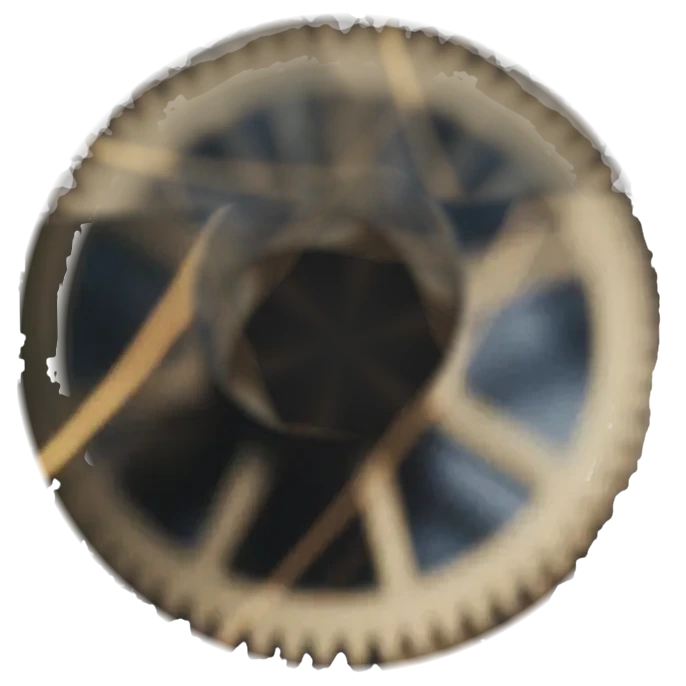
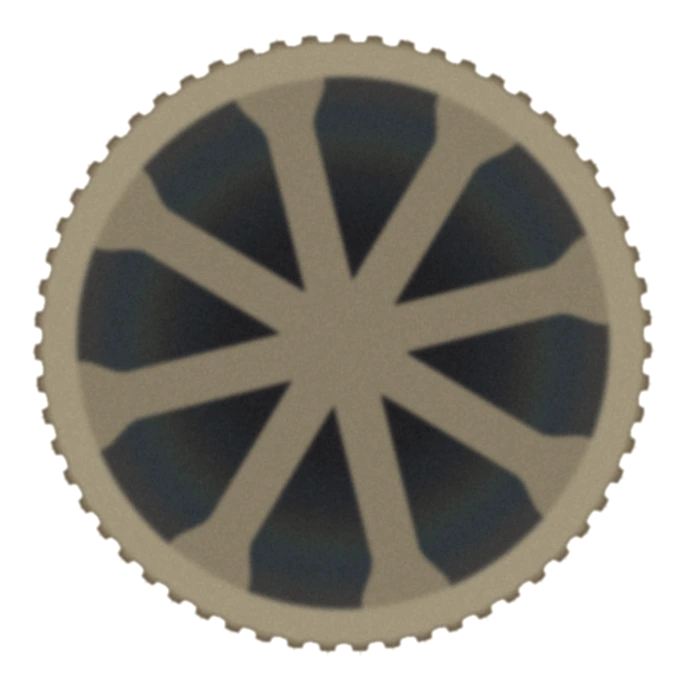
test: p-approach-gear-r8m3 clean tiled gears (no doubled spokes), fixed lighting overlay, hairspring in static layer

diff --git a/p-approach-gear-r8m3/index.html b/p-approach-gear-r8m3/index.html
@@ -221,7 +221,7 @@ html.mo .in .mask .ol,html.mo .mask.in .ol{stroke-dashoffset:0;transition:stroke
 .apf body>*:not(.mk):not(.foot){animation:apin .618s .382s ease both}
 @keyframes apin{from{opacity:0}to{opacity:1}}
 @media(prefers-reduced-motion:reduce){.apf body>*:not(.mk):not(.foot){animation:none}}
-a:not([href]){cursor:default}.gw{position:absolute;left:0;top:0;width:2400px;height:1050px;transform-origin:0 0;pointer-events:none}.gw .gr{position:absolute;left:0;top:0;max-width:none;transform-origin:0 0;will-change:transform}.gw .gs{position:absolute;max-width:none;display:block}.px .gw img{width:auto;height:auto}</style><link rel="modulepreload" href="/p-view9k3h7m/approach/js/mac3d.min.js"></head><body>
+a:not([href]){cursor:default}.gw{position:absolute;left:0;top:0;width:2400px;height:1050px;transform-origin:0 0;pointer-events:none}.gw .gxr,.gw .gxl{position:absolute;left:0;top:0;max-width:none;transform-origin:0 0;will-change:transform}.gw .gs{position:absolute;max-width:none;display:block}.px .gw img{width:auto;height:auto}</style><link rel="modulepreload" href="/p-view9k3h7m/approach/js/mac3d.min.js"></head><body>
 <header class="bar" id="bar"></header>
 <a class="mk" href="/p-view9k3h7m/" aria-label="Polarity home" style="text-decoration:none"><svg viewBox="0 0 100 100"><path d="M59.44 11.13 A40 40 0 1 0 59.44 88.87 Z" fill="#f8f4ef" transform="translate(-3.5,5.84)"/><path d="M59.44 11.13 A40 40 0 0 1 59.44 88.87 Z" fill="#b08d4f" transform="translate(3.5,-5.84)"/></svg>POLARITY</a>
 <nav class="navr" aria-label="Primary"><a href="" aria-current="page">Approach</a><a aria-disabled="true">Membership</a><a href="/p-view9k3h7m/login/"><span class="btn">Member Login</span></a><button class="hb" id="mm-btn" type="button" aria-expanded="false" aria-controls="mm" aria-label="Open menu"><svg class="h" width="34" height="21" viewBox="0 0 34 21"><rect width="34" height="3"/><rect y="9" width="34" height="3"/><rect y="18" width="34" height="3"/></svg><svg class="x" width="26" height="26" viewBox="0 0 26 26"><path d="M2 2 L24 24 M24 2 L2 24" stroke="currentColor" stroke-width="3" fill="none"/></svg></button></nav>
@@ -242,7 +242,7 @@ a:not([href]){cursor:default}.gw{position:absolute;left:0;top:0;width:2400px;hei
 </div></section>
 
 <section class="band eng" id="engine">
- <div class="px" data-par="0.12" style="position:absolute"><picture><source media="(max-width:700px)" srcset="img/engine-base-m.webp"><img class="" src="img/engine-base.webp" alt="Macro of a precision mechanical movement with gold light" decoding="async" loading="lazy"></picture><div class="gw" id="gw" aria-hidden="true"><img class="gr" data-g="A" src="img/gear-A.webp" width="686" height="686" alt="" decoding="async" style="width:686px;height:686px"><img class="gr" data-g="B" src="img/gear-B.webp" width="708" height="708" alt="" decoding="async" style="width:708px;height:708px"><img class="gr" data-g="C" src="img/gear-C.webp" width="510" height="510" alt="" decoding="async" style="width:510px;height:510px"><img class="gs" src="img/engine-static.webp" alt="" decoding="async" style="left:644px;top:0px;width:884px;height:814px"></div></div>
+ <div class="px" data-par="0.12" style="position:absolute"><picture><source media="(max-width:700px)" srcset="img/engine-base-m.webp"><img class="" src="img/engine-base.webp" alt="Macro of a precision mechanical movement with gold light" decoding="async" loading="lazy"></picture><div class="gw" id="gw" aria-hidden="true"><img class="gxr" data-g="A" src="img/gear-A.webp" width="686" height="686" alt="" decoding="async" style="width:686px;height:686px"><img class="gxr" data-g="B" src="img/gear-B.webp" width="708" height="708" alt="" decoding="async" style="width:708px;height:708px"><img class="gxr" data-g="C" src="img/gear-C.webp" width="510" height="510" alt="" decoding="async" style="width:510px;height:510px"><img class="gxl" data-l="A" src="img/light-A.webp" width="686" height="686" alt="" decoding="async" style="width:686px;height:686px"><img class="gxl" data-l="B" src="img/light-B.webp" width="708" height="708" alt="" decoding="async" style="width:708px;height:708px"><img class="gxl" data-l="C" src="img/light-C.webp" width="510" height="510" alt="" decoding="async" style="width:510px;height:510px"><img class="gs" src="img/engine-static.webp" alt="" decoding="async" style="left:641px;top:0px;width:1016px;height:932px"></div></div>
  <div class="shade"></div>
  <div class="wrap">
   <div class="k rv">02 · The Engine</div><h2 data-split>Discipline in.</h2>
@@ -497,14 +497,14 @@ var idle=window.requestIdleCallback||function(f){setTimeout(f,1200)};function ki
 if('IntersectionObserver' in window){new IntersectionObserver(function(es){vis=es[0].isIntersecting;if(vis){initGL();q()}},{rootMargin:'400px 0px'}).observe(box)}else{vis=true;initGL()}
 addEventListener('scroll',q,{passive:true});addEventListener('resize',size);size();upd()})();
 </script>
-<script>(function(){var gw=document.getElementById('gw');if(!gw)return;var sec=document.getElementById('engine'),px=gw.parentNode,M={"A": {"cx": 1160.7, "cy": 94.1, "a": 321.2, "b": 204.0, "ang": 1.5, "S": 686}, "B": {"cx": 1181.6, "cy": 537.9, "a": 331.4, "b": 213.0, "ang": 5.9, "S": 708}, "C": {"cx": 1408.5, "cy": 775.6, "a": 238.4, "b": 148.9, "ang": 1.4, "S": 510}},
-// turns across section scroll range; meshing gears alternate, speed ~ 1/radius
-T={B:.75,A:-.75*M.B.a/M.A.a,C:-.75*M.B.a/M.C.a},els={},k;
-for(k in T)els[k]=gw.querySelector('[data-g='+k+']');
+<script>(function(){var gw=document.getElementById('gw');if(!gw)return;var sec=document.getElementById('engine'),px=gw.parentNode,M={"A": [0.99966, 0.02618, -0.01746, 0.66665, 821.20469, -148.78973], "B": [0.99768, 0.06802, -0.04503, 0.66048, 850.48336, 282.55614], "C": [0.96998, 0.00677, -0.00469, 0.67247, 1181.81586, 596.13271]},S={"A": 686, "B": 708, "C": 510},N={"A": 59, "B": 60, "C": 48},
+// gear A/C turn opposite to B; angular speed ~ 1/teeth so meshing teeth stay in step
+T={B:.75},els={},lts={},k;T.A=-T.B*N.B/N.A;T.C=-T.B*N.B/N.C;
+for(k in T){els[k]=gw.querySelector('[data-g='+k+']');lts[k]=gw.querySelector('[data-l='+k+']')}
 var rm=window.matchMedia&&matchMedia('(prefers-reduced-motion: reduce)').matches,s=1,ox=0,oy=0,raf=0;
 function lay(){var w=px.offsetWidth,h=px.offsetHeight;s=Math.max(w/2400,h/1050);ox=(w-2400*s)/2;oy=(h-1050*s)/2;gw.style.transform='translate3d('+ox.toFixed(2)+'px,'+oy.toFixed(2)+'px,0) scale('+s.toFixed(5)+')'}
 function draw(){raf=0;var r=sec.getBoundingClientRect(),vh=innerHeight,t=(vh-r.top)/(vh+r.height);t=Math.max(-.2,Math.min(1.2,t));var th=rm?0:(t-.5);
-for(k in T){var g=M[k],e=els[k];e.style.transform='translate3d('+(g.cx-0).toFixed(1)+'px,'+g.cy.toFixed(1)+'px,0) rotate('+g.ang+'deg) scale(1,'+(g.b/g.a).toFixed(5)+') rotate('+(th*360*T[k]).toFixed(3)+'deg) translate('+(-g.S/2)+'px,'+(-g.S/2)+'px)'}}
+for(k in T){var m=M[k],h=S[k]/2,mt='matrix('+m.join(',')+') ';els[k].style.transform=mt+'translate('+h+'px,'+h+'px) rotate('+(th*360*T[k]).toFixed(3)+'deg) translate('+(-h)+'px,'+(-h)+'px)';lts[k].style.transform='matrix('+m.join(',')+')'}}
 function q(){if(!raf)raf=requestAnimationFrame(draw)}
 lay();draw();addEventListener('resize',function(){lay();q()});if(!rm)addEventListener('scroll',q,{passive:true});
 })();</script></body></html>
